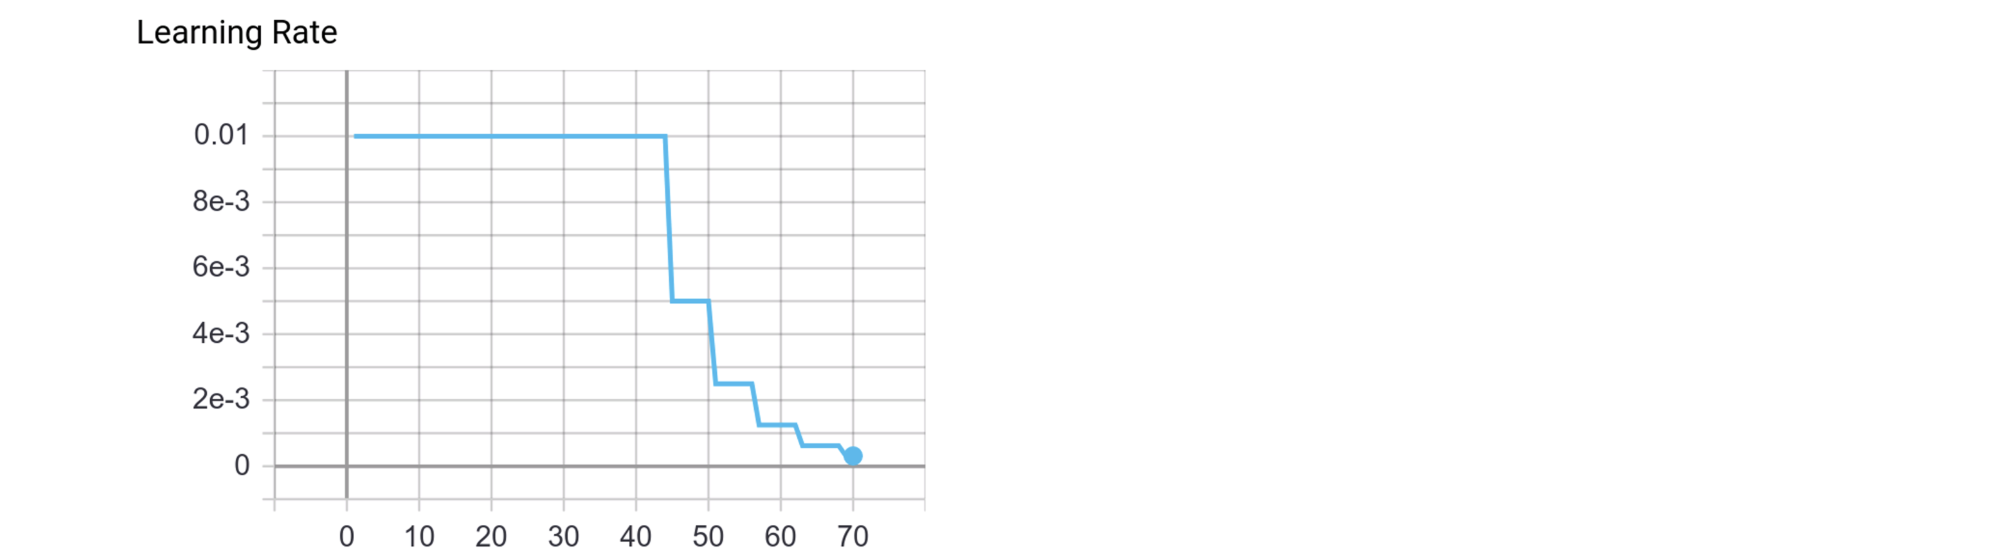
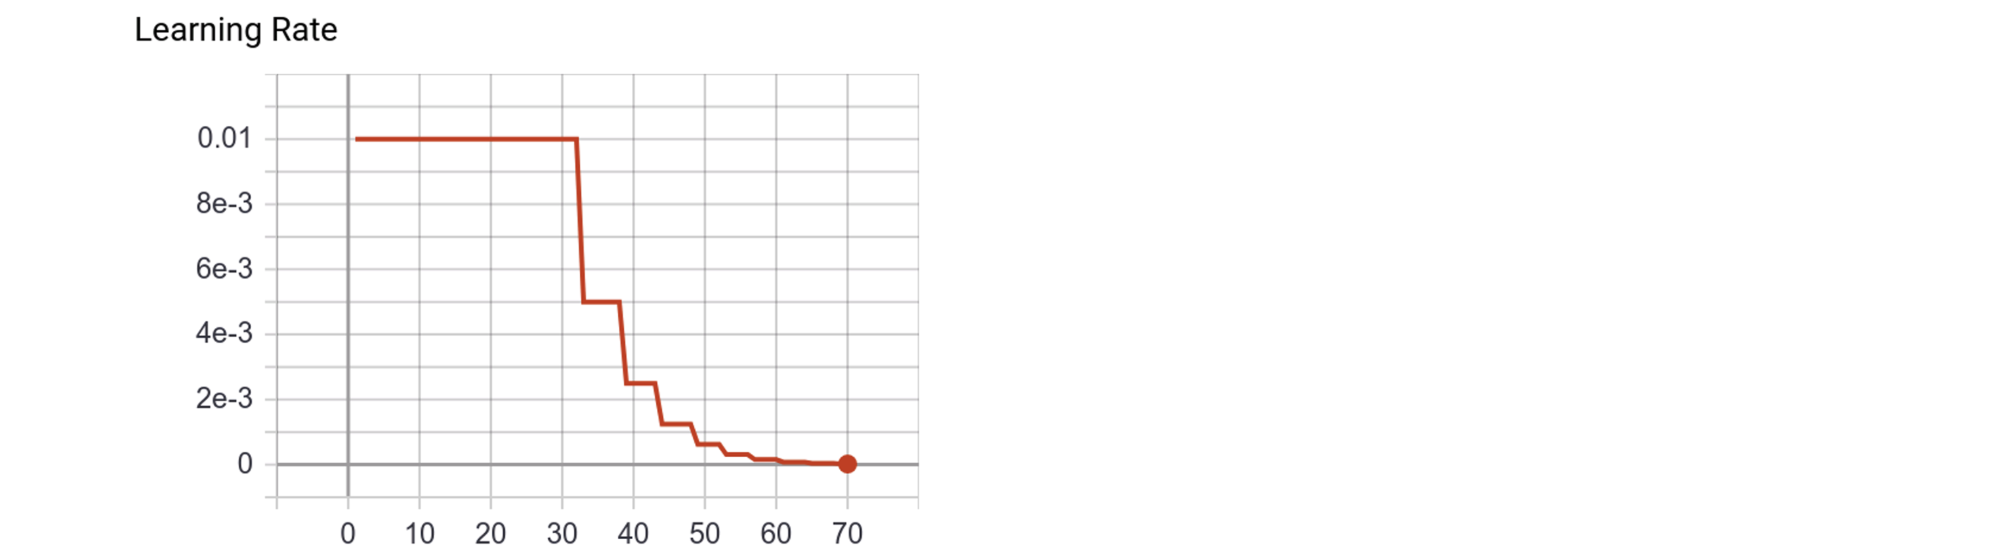
updated master README.md

diff --git a/GoogLeNet/readme.md b/GoogLeNet/readme.md
@@ -110,14 +110,19 @@ Below is the diagram of the inception module. There are total 9 inception module
 
 ## Training
 - Used **Stochastic Gradient Descent** with **Nesterov's momentum** 
+    - Also used **Adam** as alternative approach with initial learning rate as 0.001. 
 - Initial **Learning Rate** has been set to `0.01` ( The authors used .001 as initial lr)
-- In GoogLeNet the learning rate was reduced manually 3 times, by a factor of 10.
+- In GoogLeNet the learning rate was reduced manually, however we will be using Learning Rate Scheduler.
   However here we will use **ReduceLROnPlateau** and reduce the learning rate by a factor of 0.5, if there are no improvements after 3 epochs
-- ReduceLROnPlateau is dependent on the validation set accuracy.  
+    - ReduceLROnPlateau is dependent on the validation set accuracy.  
+- Also, used **CosineAnnealingLR** instead of **ReduceLROnPlateau** with **Adam**
 
 ## Results
-Here is the plot of Training/Validation Loss/Accuracy after 70 Epochs on B Architecture. The model is clearly over-fitting, 
-more data augmentation will probably help. 
+
+### Approach 1:
+Used **Stochastic Gradient Descent** with **Nesterov's momentum** and **ReduceLROnPlateau** Learning rate scheduler.
+
+Here is the plot of Training/Validation Loss/Accuracy after 70 Epochs. The model is clearly over-fitting, more data augmentation will probably help. 
 
 ![Training Plot](img/plot.png)
 
@@ -125,17 +130,46 @@ The is the plot of the learning rate decay.
 
 ![Training Plot](img/lr.png)
 
-### Comparison with AlexNet
+### Comparison with other architecture
 As shown below, the implemented model was able to achieve 53.45% Accuracy while training from scratch.
 
 | **Architecture** | **epochs** | **Training Loss** | **Validation Accuracy** | **Training Accuracy** | **Learning Rate** |
 |:----------------:|:----------:|:-----------------:|:-----------------------:|:---------------------:|:-----------------:|
 | AlexNet          | 100        | 0\.0777           | 46\.51%                 | 99\.42%               | 0\.01             |
 | ZFNet            | 100        | 0\.0701           | 49\.67%                 | 99\.43%               | 0\.01             |
-| GoogLeNet13            | 70         | 0\.0655           | 53\.45%                 | 99\.08%               | 0\.00125          |
+| VGG13            | 70         | 0\.0655           | 53\.45%                 | 99\.08%               | 0\.00125          |
+| GoogLeNet_SGD    | 70         | 0\.2786           | 55\.17%                 | 94\.89%               | 1\.953125e-05     |
 
 - The network was trained using single NVIDIA 2080ti and 32Bit Floating Point.
-- 70 training epochs took 201.26 Minutes to complete.     
+- 70 training epochs took 59.7 Minutes to complete.     
+
+### Approach 2:
+Used **Adam** optimizer fd  f gvxzand **CosineAnnealingLR** Learning rate scheduler. This approach produces better validation
+set accuracy than previous one.
+
+Here is the plot of Training/Validation Loss/Accuracy after 90 Epochs. The model is clearly over-fitting, more data augmentation will probably help. 
+
+
+![Training Plot](img/plot_a.png)
+
+The is the plot of the learning rate decay. For first 70 epochs the leaning rate was set between 1e-03 - 1e-05 and from 70-90 
+the learning rate was between 1e-04 - 1e-07.
+
+![Training Plot](img/lr_a.png)
+
+### Comparison with other architecture
+As shown below, the implemented model was able to achieve 53.45% Accuracy while training from scratch.
+
+| **Architecture** | **epochs** | **Training Loss** | **Validation Accuracy** | **Training Accuracy** | **Learning Rate**       |
+|:----------------:|:----------:|:-----------------:|:-----------------------:|:---------------------:|:-----------------------:|
+| AlexNet          | 100        | 0\.0777           | 46\.51%                 | 99\.42%               | 0\.01                   |
+| ZFNet            | 100        | 0\.0701           | 49\.67%                 | 99\.43%               | 0\.01                   |
+| VGG13            | 70         | 0\.0655           | 53\.45%                 | 99\.08%               | 0\.00125                |
+| GoogLeNet_SGD    | 70         | 0\.2786           | 55\.17%                 | 94\.89%               | 1\.953125e-05           |
+| GoogLeNet_Adam   | 90         | 0\.3104           | 61\.51%                 | 93\.64%               | 9\.63960113097139e-06   |
+
+- The network was trained using single NVIDIA 2080ti and 32Bit Floating Point.
+- 90 training epochs took 84.7 Minutes to complete.     
 
 ## How to run the scripts
 ### Pre-Processing
@@ -208,7 +242,6 @@ Training starting now ...
 100%|██████████| 191/191 [00:53<00:00,  3.56 batches/s, epoch=10, loss=3.4207, val acc=25.025, train acc=25.094, lr=0.000904603988690287]
 ```
 
-     
 ## References
 [[1] Going deeper with convolutions ](https://arxiv.org/pdf/1409.4842.pdf)
 
